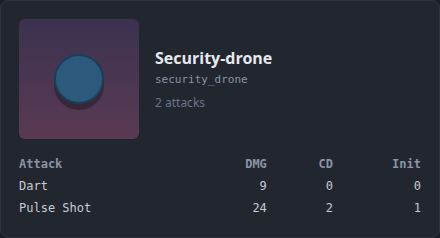
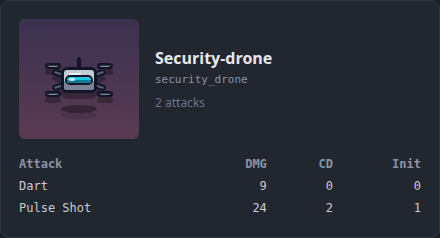
README: refresh Current State for v0.5 + v0.6, regenerate screenshots
Rewrite the auto-maintained Current State block to cover named attacks
with cooldowns, the 3-pick reward screen, Elite + Repair Bay nodes,
distinct map node shapes/colors/icons, variable per-unit ruleSlots, the
post-balance 70 HP starters, and the full 8-chassis roster. Add
/?debug=audio and /?preview=chassis to the debug list and attacks.json
to the editable-content note. Regenerate map / editor / combat and all
8 per-chassis screenshots via pnpm refresh-readme-artifacts.

Changed region(s): [[0.0886, 0.2059, 0.2659, 0.4706]]

diff --git a/README.md b/README.md
@@ -30,35 +30,39 @@ Open [http://localhost:5173](http://localhost:5173) in your browser.
 ## Current State
 
 <!-- CURRENT_STATE:START -->
-The full run loop is playable end-to-end.
+The full run loop is playable end-to-end with rewards, elite encounters, repair bays, and eight chassis.
 
-**Map screen** — a seeded branching node graph. Pick your path through 10–12 combat nodes to reach the boss.
+**Map screen** — a seeded branching node graph with distinct shapes, colors, and icons per node type: regular **Combat** (⚔), **Elite** (♦, ~2 per map, harder hand-authored fixtures), **Repair Bay** (+, ~1 per map, partial-heal-all on entry, no fight), and **Boss** (★).
 
 ![Map screen](doc/screenshots/readme/map.png)
 
-**Gambit editor** — author priority rules for each unit before every fight. Conditions and actions are searchable dropdowns; slots drag to reorder. Each unit tab shows current HP carried from the previous fight.
+**Gambit editor** — author priority rules for each unit before every fight. Conditions and actions are searchable dropdowns; the action picker shows only attacks valid for the selected unit's chassis with damage and cooldown info. Slots drag to reorder. Each unit's `ruleSlots` cap is honored: rows beyond the unit's current cap render as locked placeholders, unlockable via the **+rule-slot** reward (cap 6).
 
 ![Gambit editor](doc/screenshots/readme/editor.png)
 
-**Combat screen** — fights resolve automatically from your gambit lists. Active unit is highlighted, target indicators animate between attacker and target, a scrolling log tracks every action. Play, pause, step, or fast-forward at 0.5×–10×. Synthesized sound effects and music play in sync.
+**Combat screen** — fights resolve automatically from your gambit lists. Each chassis has its own named attacks (Quick Jab, Sweep, Taser, Overload, Clamp, Suppression, Dart, Pulse Shot, …) with per-attack damage, cooldowns, and synthesized sounds; the interpreter falls through silently when a rule's attack is on cooldown. Active unit is highlighted, target indicators animate between attacker and target, a scrolling log tracks every action. Play, pause, step, or fast-forward at 0.5×–10×.
 
 ![Combat screen](doc/screenshots/readme/combat.png)
 
 **How to play:**
 1. `pnpm install && pnpm dev`
 2. Open [http://localhost:5173](http://localhost:5173)
-3. The map loads automatically — click a reachable node (⚔) to enter the gambit editor
+3. The map loads automatically — click a reachable node to enter the gambit editor (combat/elite) or apply the heal (repair bay)
 4. Author rules for each unit, click **Run**
-5. Watch the fight play out; when it ends click **Continue →** to return to the map
+5. Watch the fight play out; when it ends click **Continue →**, then pick one of three rewards (heal-one / heal-all / +rule-slot / new-unit drawn from the starter pool) before returning to the map
 6. Reach and defeat the boss (★) to win the run — or lose all units and get a game-over
 
 **Squad persistence:** surviving units carry their HP between fights. A unit destroyed in fight N sits out fight N+1 and returns at 42% HP for fight N+2.
 
-**Starter preset pool:** each new run draws 2 random starters at 50 HP / 2 rule slots from `src/content/starter-presets.json`. Edit that file to add, remove, or retune presets.
+**Eight chassis** ship today: five players (**Vacuum**, **Butler**, **QA-Rig**, **Lawnbot**, **Security-drone**), the **Overseer** boss, **Swarmer** (regular pool), and **Siege** (elite encounters only). See the [Chassis](#chassis) section below for per-chassis attack stats.
+
+**Starter preset pool:** each new run draws 2 random starters at 70 HP / 2 rule slots from `src/content/starter-presets.json`. Attack stats live in `src/content/attacks.json`. Both are Zod-validated and editable to add, remove, or retune content.
 
 **Debug pages** (dev server only):
 - `/?debug=units` — renders all chassis components side-by-side
 - `/?debug=scene` — plays a hand-written fixture through the render layer
+- `/?debug=audio` — synth playground for per-attack sounds and music
+- `/?preview=chassis` — chassis overview page used to regenerate the cards below
 
 <sub>Screenshots and description auto-maintained — run `/refresh-readme` to refresh.</sub>
 <!-- CURRENT_STATE:END -->
